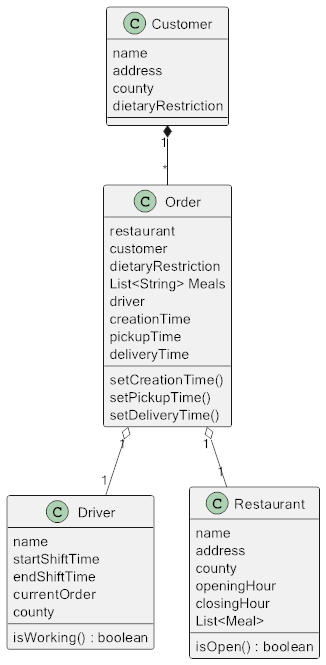
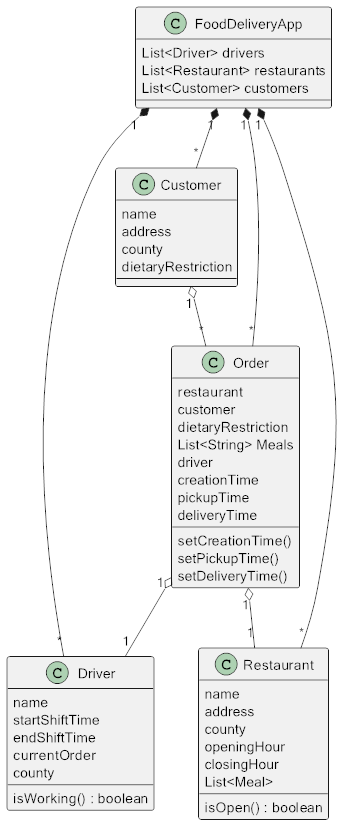
Further development of classes. Started builder design pattern in Order.

diff --git a/Order.java b/Order.java
@@ -1,4 +1,51 @@
+import java.util.*;
+import java.time.*;
 class Order {
-	public final Restaurant restaurant=null;
-	public final Customer customer=null;
+	public final Restaurant restaurant;
+	public final Customer customer;
+	public final String dietaryRestriction;
+	public final String[] meals;
+	public final Driver driver;
+	public boolean isBeingFulfilled=false;
+	private LocalTime creationTime=null;
+	private LocalTime pickupTime=null;
+	private LocalTime deliveryTime=null;
+	private Order(OrderBuilder builder) {
+		creationTime=LocalTime.now();
+		restaurant=builder.restaurant;
+		customer=builder.customer;
+		dietaryRestriction=builder.dietaryRestriction;
+		meals=builder.meals.toArray(new String[0]);
+	}
+	public void setPickupTime() {
+		pickupTime=LocalTime.now();
+	}
+	public void setDeliveryTime() {
+		deliveryTime=LocalTime.now();
+	}
+	public static OrderBuilder builder() {
+		return new OrderBuilder();
+	}
+	public class OrderBuilder {
+		private Restaurant restaurant;
+		private Customer customer;
+		private String dietaryRestriction;
+		public OrderBuilder setRestaurant(Restaurant restaurant) {
+			this.restaurant=restaurant;
+			return this;
+		}
+		public OrderBuilder setCustomer(Customer customer) {
+			this.customer=customer;
+			return this;
+		}
+		public OrderBuilder setDietaryRestriction(String diet) {
+			this.dietaryRestriction=diet;
+			return this;
+		}	
+		public Order build() {
+			if (restaurant!=null&&customer!=null&&dietaryRestriction!=null)
+				return new Order(this);
+			throw new RuntimeException("One of the inputs was null");
+		}
+	}
 }

diff --git a/Restaurant.java b/Restaurant.java
@@ -1,14 +1,23 @@
 import java.time.*;
 import java.util.*;
 class Restaurant {
-	public final String name=null;
+	public final String name;
 	public final String address=null;
 	public final String county=null;
 	private LocalTime openingHour=null;
 	private LocalTime closingHour=null;
-	private List<String> meals=new ArrayList<>();
+	public final List<String> meals=new ArrayList<>();
+	public Restaurant(String name) {
+		this.name=name;
+	}
 	public boolean isOpen() {
 		LocalTime now = LocalTime.now();
 		return now.compareTo(openingHour)>=0 && now.compareTo(closingHour)<=0;
+	}
+	public void add(String meal) {
+		meals.add(meal);
+	}
+	public void remove(String meal) {
+		meals.remove(meal);
 	}
 }

diff --git a/Driver.java b/Driver.java
@@ -4,8 +4,15 @@ class Driver {
 	private LocalTime startShiftTime=null;
 	private LocalTime endShiftTime=null;
 	private String county=null;
+	private boolean currentlyDriving=false;
 	public boolean isAvailable() {
 		LocalTime now = LocalTime.now();
-		return now.compareTo(startShiftTime)>=0 && now.compareTo(endShiftTime)<=0;
+		return !currentlyDriving && now.compareTo(startShiftTime)>=0 && now.compareTo(endShiftTime)<0;
+	}
+	public void startDrive() {
+		currentlyDriving=true;
+	}
+	public void endDrive() {
+		currentlyDriving=false;
 	}
 }

diff --git a/FoodDeliveryApp.java b/FoodDeliveryApp.java
@@ -3,6 +3,7 @@ class FoodDeliveryApp {
 	List<Customer> customers=new ArrayList<>();
 	List<Driver> drivers=new ArrayList<>();
 	List<Restaurant> restaurants = new ArrayList<>();
+	List<Order> currentOrders = new ArrayList<>();
 	public void register(Customer customer) {
 		customers.add(customer);
 	}
@@ -11,5 +12,8 @@ class FoodDeliveryApp {
 	}
 	public void register(Restaurant restaurant) {
 		restaurants.add(restaurant);
+	}
+	public void recieveOrder(Order order) {
+		currentOrders.add(order);
 	}
 }

diff --git a/Customer.java b/Customer.java
@@ -1,6 +1,9 @@
 class Customer {
 	private String name=null;
 	private String address=null;
-	private String county=null; // should be an enum?
-	private String dietaryRestriction=null;
+	private String county=null; 
+	private String dietaryRestriction=null; // should be an enum?
+	public Customer(String name) {
+		this.name=name;
+	}
 }

diff --git a/FoodDeliveryDriver.java b/FoodDeliveryDriver.java
@@ -1,0 +1,9 @@
+class FoodDeliveryDriver {
+	public static void main(String[] args) {
+		FoodDeliveryApp cppFoodDelivery = new FoodDeliveryApp();
+		cppFoodDelivery.register(new Customer("Alice"));
+		Restaurant restaurant = new Restaurant("Bob's");
+		restaurant.add("Burger");
+		cppFoodDelivery.register(restaurant);
+	}
+}
